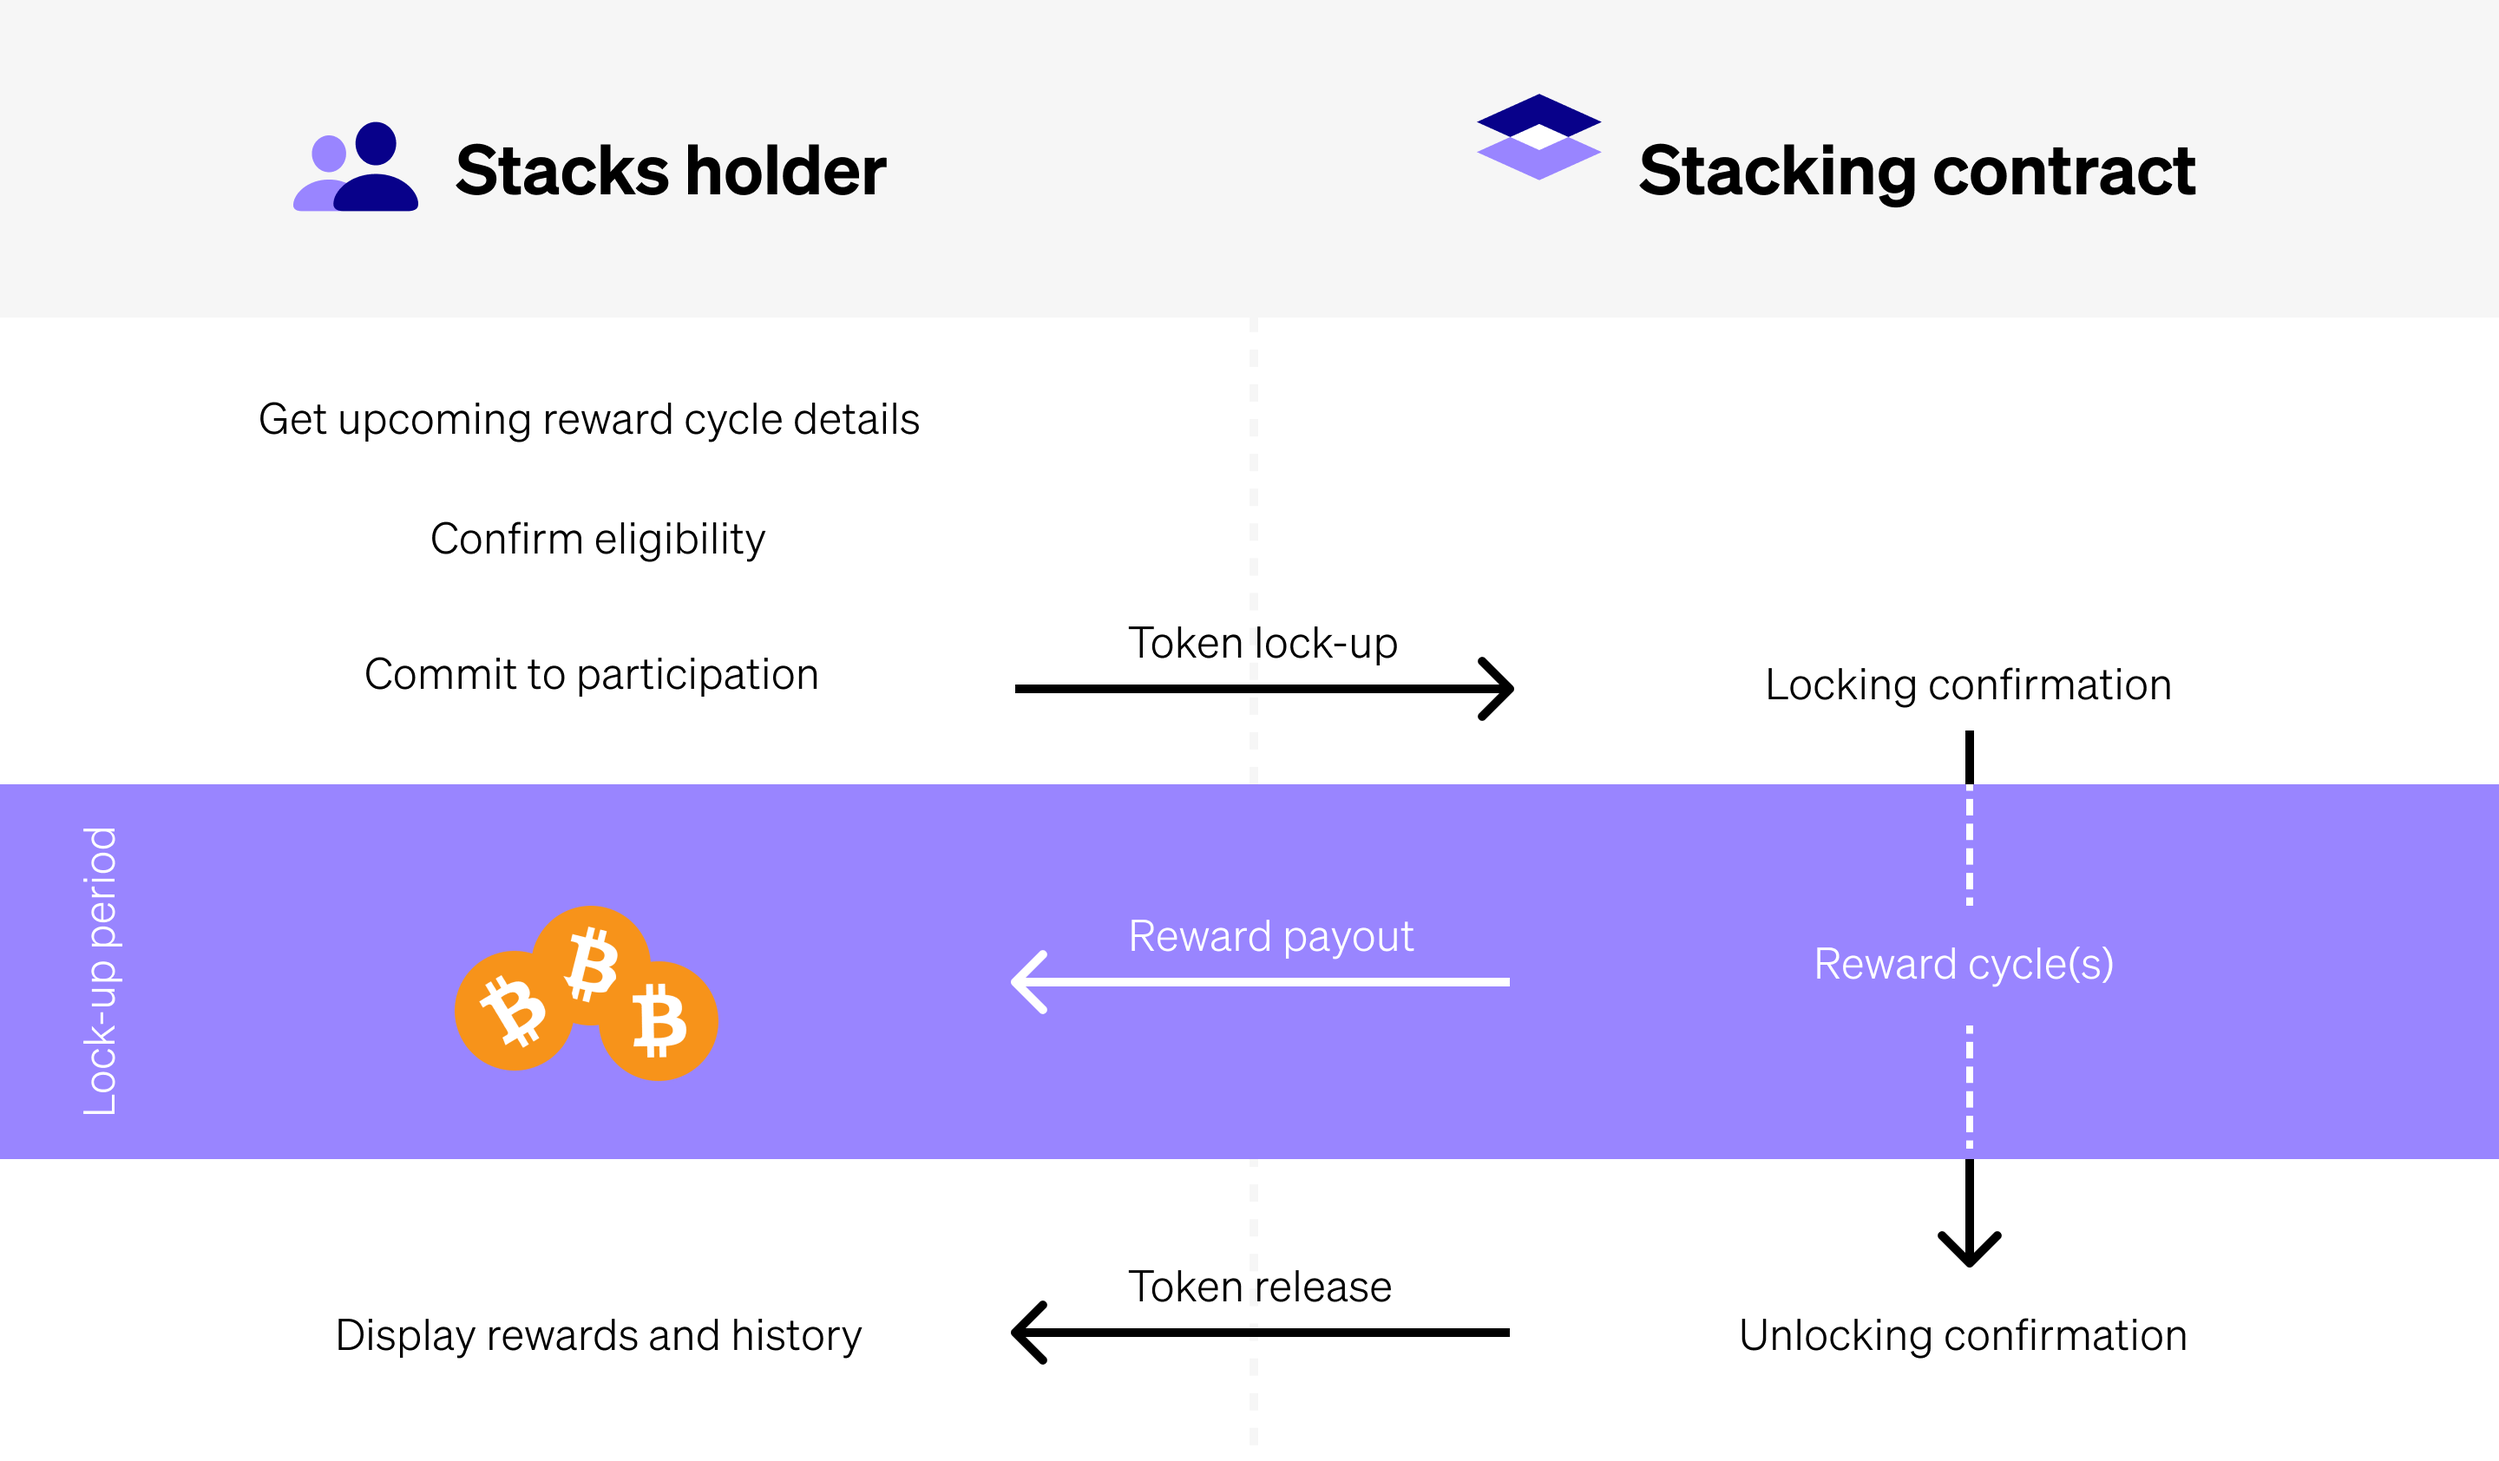
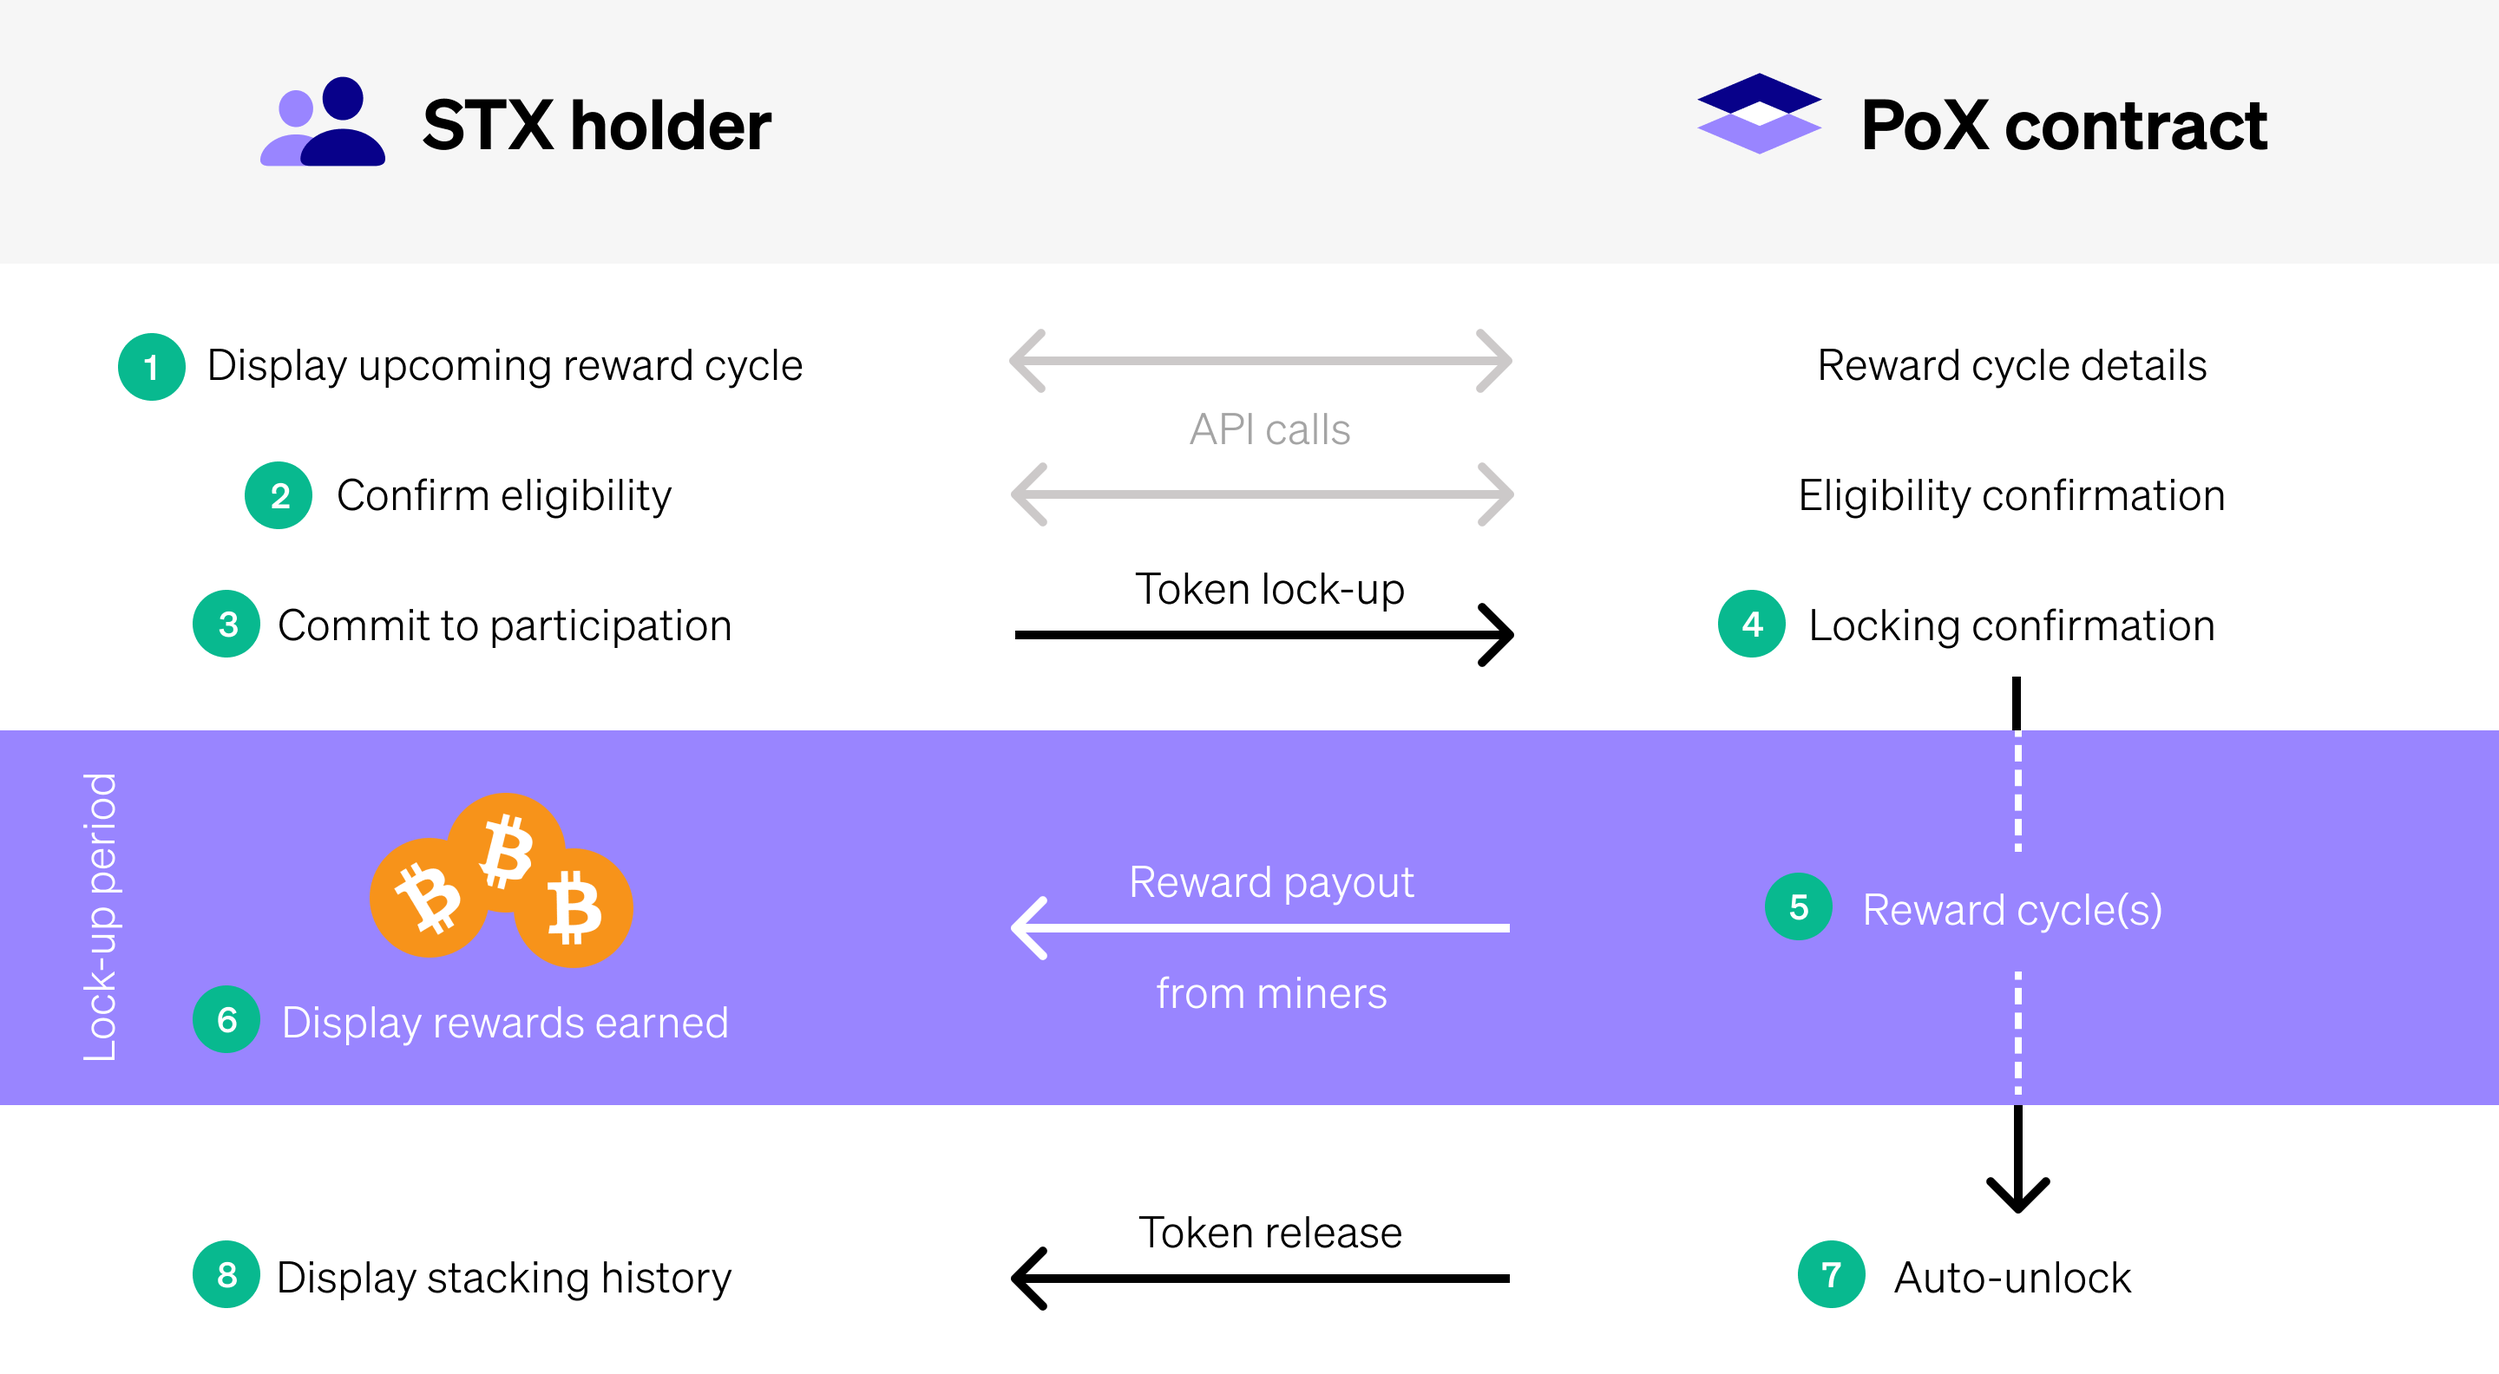
fix: update desc and illustration

diff --git a/src/pages/stacks-blockchain/stacking.md b/src/pages/stacks-blockchain/stacking.md
@@ -1,6 +1,6 @@
 ---
 title: Understand Stacking
-description: Introduction to the rewarding mechanism of Proof-of-Transfer
+description: Introduction to the reward mechanism of Proof-of-Transfer
 images:
   sm: /images/pages/stacking-rounded.svg
 ---
@@ -10,6 +10,8 @@ images:
 Stacking rewards Stacks token holders with bitcoins for providing a valuable service to the network by locking up their tokens for a certain period of time.
 
 Stacking is a built-in action, required by the "proof-of-transfer" (PoX) mechanism. The PoX mechanism is executed by every miner on the Stacks 2.0 network.
+
+-> Fun fact: The Stacking consensus algorithm is implemented as a smart contract, using [Clarity](/smart-contracts/overview).
 
 ## PoX mining
 
@@ -34,7 +36,7 @@ Stacks token holders do not automatically receive Stacking rewards. Instead, the
 - Lock up Stacks tokens for a specified period
 - Set a Bitcoin address to receive rewards
 
-Token holders will have to use a wallet or exchange that supports participation in Stacking.
+Token holders will have to use software like apps, exchanges, or wallets that support participation in Stacking.
 
 [@page-reference | inline]
 | /stacks-blockchain/integrate-stacking
@@ -43,12 +45,10 @@ Token holders will have to use a wallet or exchange that supports participation 
 
 Stacking is a built-in capability of PoX and is realized through a set of actions on the Stacks 2.0 network. The full implementation details can be found in [SIP-007](https://github.com/blockstack/stacks-blockchain/blob/develop/sip/sip-007-stacking-consensus.md). Below is a summary of the most relevant actions of the algorithm.
 
--> Fun fact: The Stacking consensus algorithm is implemented as a smart contract, using [Clarity](/smart-contracts/overview).
-
 - Progression in Stacking consensus happens over reward cycles (with a fixed length). In each reward cycle, a set of Bitcoin addresses are iterated over
 - A reward cycle consists of two phases: prepare and reward
 - During the prepare phase, miners decide on an anchor block and a reward set. Mining any descendant forks of the anchor block requires transferring mining funds to the appropriate reward addresses. The reward set is the set of Bitcoin addresses which will receive funds in the reward cycle
 - Miners register as leader candidates for a future election by sending a key transaction that both burns cryptocurrency (proof-of-burn) and spends energy (proof-of-work). The transaction also registers the leader's preferred chain tip (must be a descendant of the anchor block) and commitment of funds to 5 addresses from the reward set
 - Token holders register for the next rewards cycle by broadcasting a signed message that locks up associated Stacks tokens for a protocol-specified lockup period, specifies a Bitcoin address to receive the funds, and votes on a Stacks chain tip
-- The leader that commits to the winning chain tip and the peers who also burn for that leader collectively share the reward, proportional to how much each one burned
+- Multiple leaders can commit to the same chain tip. The leader that wins the election and the peers who also burn for that leader collectively share the reward, proportional to how much each one burned
 - Token holders' locked up tokens automatically unlock as soon as the lockup period is completed

diff --git a/src/pages/stacks-blockchain/integrate-stacking.md b/src/pages/stacks-blockchain/integrate-stacking.md
@@ -27,9 +27,9 @@ You should [review and understand the Stacking mechanism](/stacks-blockchain/sta
 
 ## Overview
 
-![The flow you'll be implementation in this tutorial](/images/stacking-illustration.png)
-
 In this tutorial, we will implement this Stacking flow:
+
+![The flow you'll be implementation in this tutorial](/images/stacking-illustration.png)
 
 1. Make API calls to get details about the upcoming reward cycle. The details include the next cycle timestamp, cycle duration, and estimated rewards
 2. For a specific Stacks wallet, confirm the minimum balance required and no locked-up tokens
@@ -38,7 +38,7 @@ In this tutorial, we will implement this Stacking flow:
 5. The Stacking mechanism executes reward cycles and sends out rewards to the set BTC reward address
 6. During the lockup period, make API calls to get details about unlocking timing, rewards collected and projected
 7. Once lockup period is passed, the tokens are released and accessible again
-8. Display actual rewards collected from the last Stacking participation
+8. Display reward history, including details like earnings for previews rewrad cycles
 
 ## Step 1: Integrate JS libraries
 
